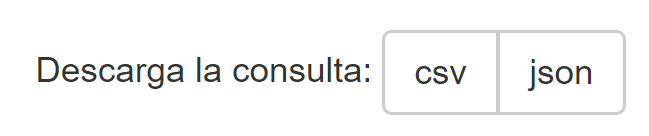
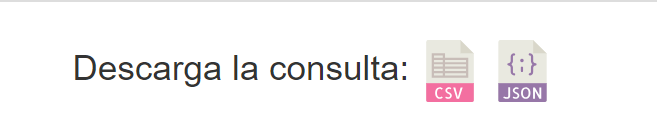
Añadidos iconos para exportar consultas
#43

Changed region(s): [[0.0616, 0.2059, 0.9861, 0.8529], [0.0, 0.0, 1.0, 0.0294]]

diff --git a/web/templates/macros.html b/web/templates/macros.html
@@ -14,5 +14,7 @@
 
 {# Botón para descargar la consulta en cierto formato #}
 {% macro descarga_consulta(formato) %}
-<a class="btn btn-default" href="{{ url_for('descarga_consulta', formato=formato) }}">{{ formato }}</a>
+<a href="{{ url_for('descarga_consulta', formato=formato) }}">
+    <img src="{{ url_for('.static', filename='imagenes/{}.svg'.format(formato)) }}" width="25" alt="{{ formato }}">
+</a>
 {% endmacro %}

diff --git a/docs/latex/tex/E_Manual_usuario.tex b/docs/latex/tex/E_Manual_usuario.tex
@@ -71,7 +71,7 @@ Tras haber realizado la consulta, podremos ver los resultados. Se mostrará una 
 
 Podemos elegir el número de filas mostradas por cada página, ordenar los datos por la columna que queramos o buscar dentro de la tabla. 
 
-\imagen{manual/visualizacion}{Visualización de la consulta}
+\imagengrande{manual/visualizacion}{Visualización de la consulta}
 
 En caso de que hayamos superado el número de filas a mostrar, nos aparecerá un mensaje informándonos de cuántas filas se están mostrando y cuál es el número real de filas.
 
@@ -79,9 +79,9 @@ En caso de que hayamos superado el número de filas a mostrar, nos aparecerá un
 
 \subsection{Exportación de consultas} \label{exportar}
 
-Para exportar una consulta, simplemente presionamos el botón `csv' o `json', dependiendo del formato que nos interese.
+Para exportar una consulta, simplemente presionamos el icono correspondiente de CSV o JSON, dependiendo del formato que nos interese.
 
-Se descargará los datos de la consulta completa. Pueden ser más de los que aparecen en la tabla, si ha superado el número de filas a mostrar que hemos elegido al realizar la consulta.
+Se descargará los datos de la consulta completa. Pueden ser más de los que aparecen en la tabla si ha superado el número de filas a mostrar que hemos elegido al realizar la consulta.
 
 \imagen{manual/exportar}{Exportar consulta}
 
